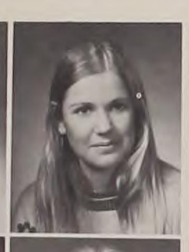
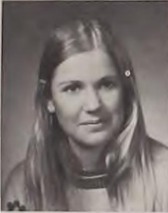
RSVPs updates, classmates table updates, yearbook pictures, minor edits

diff --git a/index.html b/index.html
@@ -9,7 +9,6 @@ wish list (not necessarily in order of importance):
 3) try reading xml from xml file
 4) sort by confirmation, RSVP method
 5) mention mod system and how our class was one of the last to have this
-6) reconcile reachable for RSVPs {yes, no, maybe} with spreadsheet, and make them -1 for deceased (to enable black coloring)
 -->
 
 <!DOCTYPE html>
@@ -470,6 +469,12 @@ wish list (not necessarily in order of importance):
 		<method>Classmates.com</method>            
 	</rsvp>
 	<rsvp>
+		<last>Bevan</last>
+		<first>Sara</first>
+		<confirmation>maybe</confirmation>
+		<method>André</method>
+	</rsvp>
+	<rsvp>
 		<last>Beymer</last>
 		<first>Kathy</first>
 		<nee>Grose</nee>
@@ -561,7 +566,7 @@ wish list (not necessarily in order of importance):
 		<last>Disney</last>
 		<first>Marvin</first>
 		<confirmation>maybe</confirmation>
-		<mehtod>André</mehtod>
+		<method>André</method>
 	</rsvp>
 	<rsvp>
 		<last>Doren</last>
@@ -708,7 +713,7 @@ wish list (not necessarily in order of importance):
 		<last>Hansen-Aran</last>
 		<first>Debbie</first>
 		<nee>Smyth</nee>
-		<confirmation>yes</confirmation>
+		<confirmation>no</confirmation>
 		<method>Classmates.com</method>            
 	</rsvp>     
 	<rsvp>
@@ -1189,9 +1194,16 @@ wish list (not necessarily in order of importance):
 	</rsvp>
 	<rsvp>
 		<last>Wheeler</last>
+		<nee>Sahinen</nee>
+		<first>Rose</first>
+		<confirmation>yes</confirmation>
+		<comments>wife of Wayne Wheeler</comments>
+		<method>Kurt</method>
+	</rsvp>
+	<rsvp>
+		<last>Wheeler</last>
 		<first>Wayne</first>
 		<confirmation>yes</confirmation>
-		<guests>1</guests>
 		<comments>wife Rose (née Sahinen)</comments>
 		<method>Kurt</method>            
 	</rsvp>
@@ -1207,8 +1219,8 @@ wish list (not necessarily in order of importance):
 		<last>Winter</last>
 		<nee>Hansen</nee>
 		<first>Karen</first>
-		<confirmation>maybe</confirmation>
-		<method>André</method>
+		<confirmation>no</confirmation>
+		<method>Debbie</method>
 	</rsvp>
 	<rsvp>
 		<last>Witulski</last>
@@ -1697,9 +1709,9 @@ wish list (not necessarily in order of importance):
 	<classmate>
 		<key>36</key>
 		<last>Bevan</last>
-		<newLast>Blanckaert</newLast>
 		<first>Sara</first>
 		<middle>L.</middle>
+		<reachable>1</reachable>
 	</classmate>
 	<classmate>
 		<key>37</key>
@@ -2719,6 +2731,7 @@ wish list (not necessarily in order of importance):
 		<last>Harvey</last>
 		<first>Gary</first>
 		<middle>L.</middle>
+		<reachable>1</reachable>
 	</classmate>
 	<classmate>
 		<key>194</key>
@@ -5567,7 +5580,8 @@ wish list (not necessarily in order of importance):
 						</li>						
 						<li>
 							<h4>Bevan, Sara</h4>
-							<p>picture not in Yearbook</p>
+							<img src="images/classmates/key036.png" alt="Bevan, Sara" title="Bevan, Sara" width="168" height="213">
+							<p>No senior picture, using junior picture.</p>
 						</li>
 						<li>
 							<h4>Beveridge, Joy</h4>
@@ -6003,6 +6017,10 @@ wish list (not necessarily in order of importance):
 						<li>
 							<h4>Harvey, Donald</h4>
 							<p>picture not in Yearbook</p>
+						</li>
+						<li>
+							<h4>Harvey, Gary</h4>
+							<img src="images/classmates/key193.png" alt="Harvey, Gary" title="Harvey, Gary" width="194" height="283">
 						</li>
 						<li>
 							<h4>Hasler, Steven</h4>
@@ -7155,21 +7173,23 @@ wish list (not necessarily in order of importance):
 			
 			<h3>Last update</h3>
 
-			<p>27 July 2026 Monday.</p>
+			<p>29 July 2026 Wednesday.</p>
 
 			<h4>Release Notes</h4>
 
 			<ol>
 				<li>Updated RSVPs in the <a href="#secRSVPs">RSVPs</a> section.</li>
 				<li>Updated classmates table (mostly reachability flags) in the <a href="#secAlumni">Alumni Resources</a> section.</li>
-				<li>Added pictures to (and fixed error in) the <a href="#secYearbook">Yearbook</a> section</li>
-				<li>Fixed error in <a href="#secDeceased">Deceased</a> section.</li>
-				<li>Added information about the 20-year reunion in the <a href="#secPastReunions">Past Reunions</a> section.</li>
+				<li>Added pictures to the <a href="#secYearbook">Yearbook</a> section</li>
 				<li>To do:  past reunion pictures:  who's in the pictures?
-					<p>Rob Zancanella sent marked up reunion pictures (noting who is in the pictures).</p>
-					<p>These will be made available in the future once we can figure out the best way to do that.</p>
-					<p>A spreadsheet (or worksheet) will be probably be added, 
-					and the marked up pictures will be placed in the pictures section of the GHS '76 shared drive.</p>
+					<p>Bob Zancanella sent marked up reunion pictures (noting who is in the pictures).</p>
+					<p>These are on the GHS '76 shared drive in the 
+						<a href="https://drive.google.com/drive/folders/18W-5vv-QAtr3809P9MR2AOyu9j_3Z75K?usp=drive_link" target="_blank">pictures</a> folder.</p>
+					<p>In the future, a spreadsheet (or worksheet) will be probably be added, 
+						and the marked up pictures will be placed in the pictures section of the GHS '76 shared drive, 
+						and/or be placed on the website.
+					</p>
+					<p>Inkscape (free app) will be used to make editing labels easier; they will be placed in a separate layer.</p>
 				</li>
 				<li>To do:  self-service RSVP spreadsheet.
 					<p>A spreadsheet (or similar) will probably be added soon to allow self-service RSVP edits/updates; 
